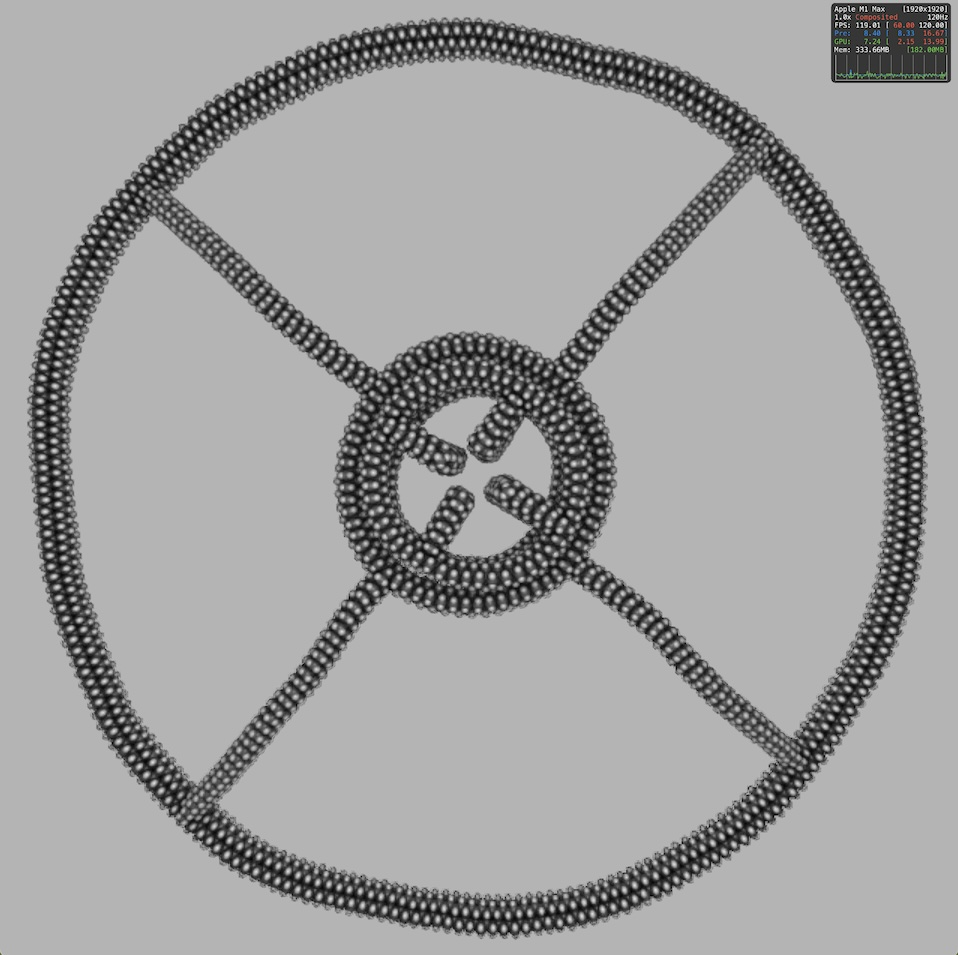
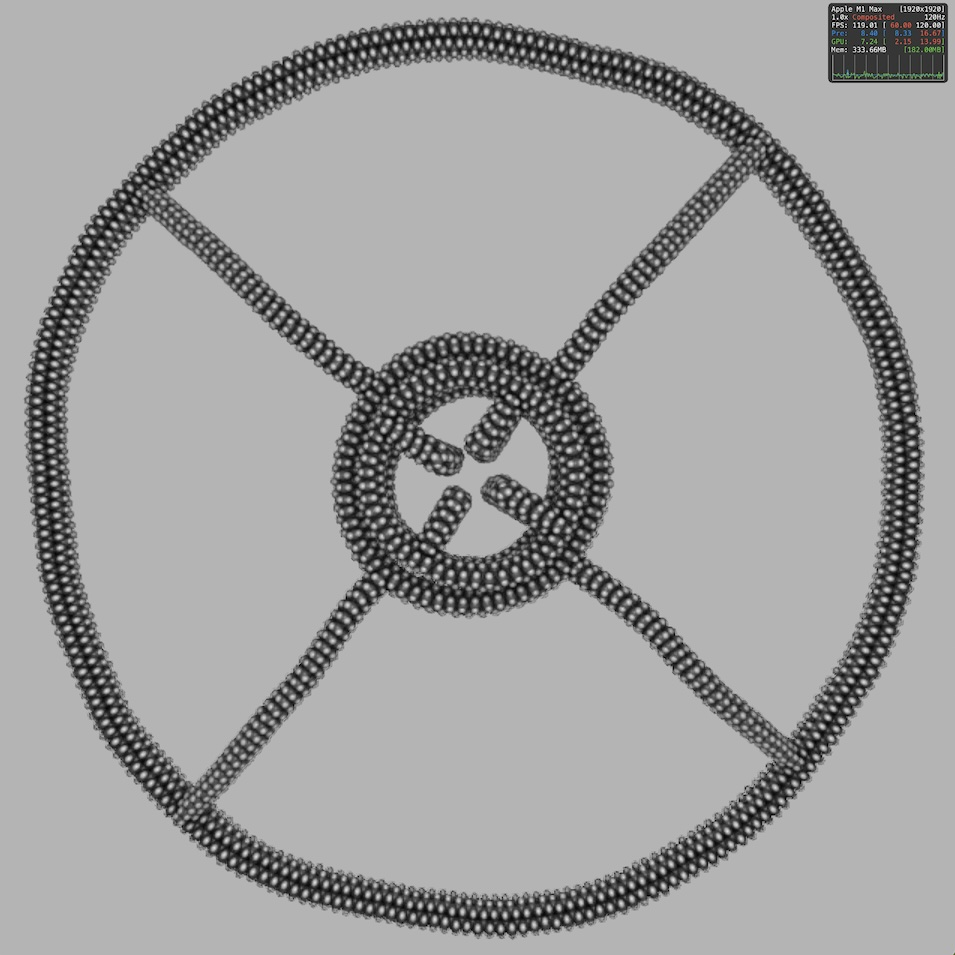
Improving the docs

Changed region(s): [[0.0, 0.0, 0.8199, 1.0], [0.8503, 0.0, 0.911, 0.0607]]

diff --git a/Sources/HardwareCatalog/Ring/README.md b/Sources/HardwareCatalog/Ring/README.md
@@ -2,8 +2,13 @@
 
 Author: Philip Turner
 
-![Image 1](./Ring_Image1.jpg)
-![Image 2](./Ring_Image2.jpg)
+> WARNING: This crystolecule likely cannot be manufactured. However, it is needed to create a constant current source for controlled motions _in silico_.
+
+<p align="center">
+  <img alt="Image 1" src="./Ring_Image1.jpg" width="45%">
+&nbsp; &nbsp; &nbsp; &nbsp;
+  <img alt="Image 2" src="./Ring_Image2.jpg" width="45%">
+</p>
 
 > Left: spinning at 1050 m/s, right: spinning at 4200 m/s. The flywheel in each image is two rings superimposed. The outer ring only has inner spokes, while the inner ring only has outer spokes. The two rings are overlaid using CSG, as the non-warped part aligns with the crystal lattice.
 
